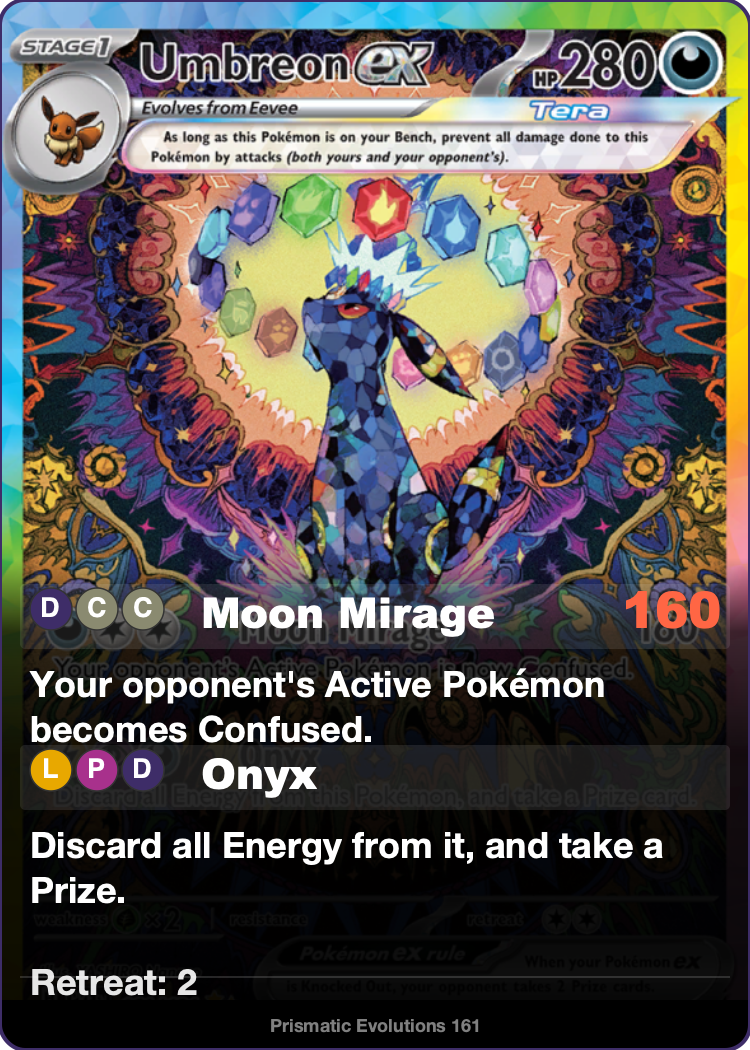
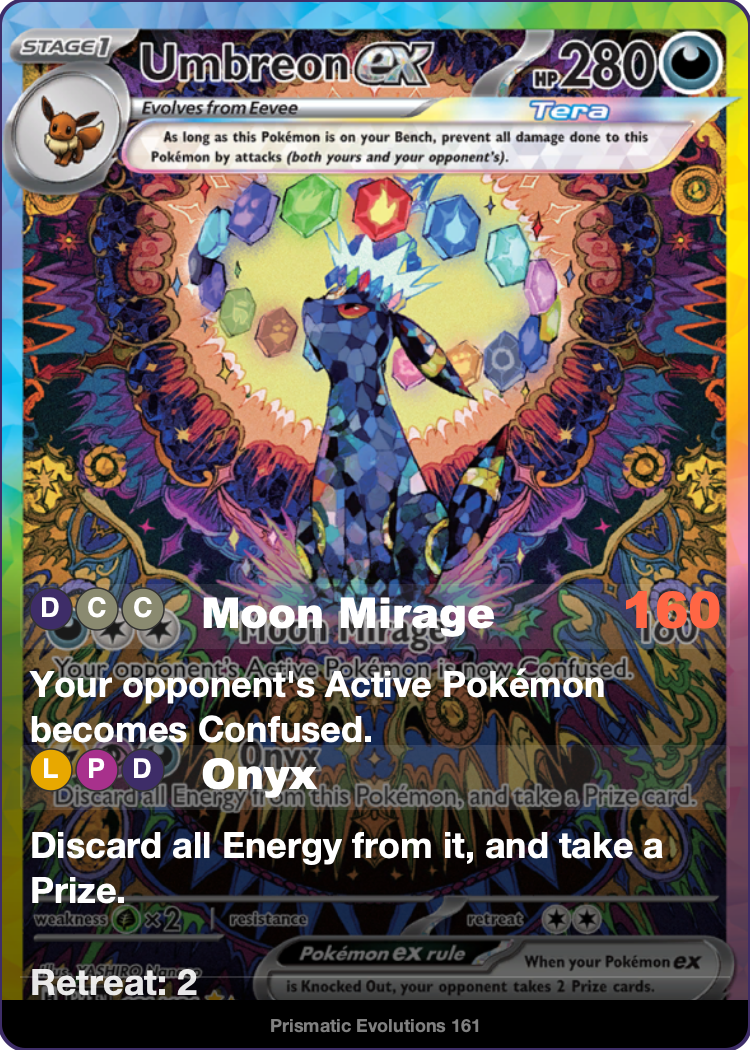
Add per-card overrides, CLI flags for overlay/font/max-cover, white card background
- Full-art overlay opacity, font size, and max coverage are now CLI flags
  (--overlay, --font, --max-cover) that set defaults for all cards
- Per-card overrides via key=value tokens in decklist lines (e.g. overlay=0.4)
- Default overlay opacity set to 0.7
- Standard cards now have solid white background so SVG previews don't
  bleed the editor background
- Updated README with override docs and usage examples

Changed region(s): [[0.0, 0.5486, 1.0, 0.9752], [0.276, 0.9448, 0.3067, 0.9752]]

diff --git a/pokeproxy.py b/pokeproxy.py
@@ -416,11 +416,15 @@ def is_fullart(card: dict) -> bool:
     return False
 
 
-def generate_fullart_svg(card: dict, image_b64: str) -> str:
+def generate_fullart_svg(card: dict, image_b64: str, overlay_opacity: float = 0.7,
+                         font_size: int = None, max_cover: float = 0.55) -> str:
     """Generate an SVG proxy for a full-art card.
 
     Uses the full card image as background with a gradient overlay
     on the lower portion, then renders large readable text on top.
+    overlay_opacity: max darkness of the text background (0.0–1.0).
+    font_size: force body font size in px (None = auto-select 36 or 30).
+    max_cover: max fraction of card the overlay can cover (0.0–1.0).
     """
     name = escape_xml(card.get("name", "Unknown"))
     hp = card.get("hp", "")
@@ -471,7 +475,20 @@ def generate_fullart_svg(card: dict, image_b64: str) -> str:
 
     # Try large (36) first, drop to medium (30) if overlay would cover >50% of card
     BODY_LARGE, BODY_MEDIUM = 36, 30
-    if has_text:
+    if font_size is not None:
+        # Forced font size — skip auto-selection
+        BODY_SIZE = font_size
+        if has_text:
+            head_candidate = int(BODY_SIZE * HEAD_RATIO)
+            text_h = ft_content_height(
+                BODY_SIZE, head_candidate, text_max_w,
+                category, trainer_effect, abilities, attacks)
+            text_block_h = text_h + text_pad + footer_h
+            overlay_top = CARD_H - text_block_h - 40
+        else:
+            text_h = 0
+            overlay_top = CARD_H - footer_h - 40
+    elif has_text:
         for body_candidate in [BODY_LARGE, BODY_MEDIUM]:
             head_candidate = int(body_candidate * HEAD_RATIO)
             text_h = ft_content_height(
@@ -494,7 +511,7 @@ def generate_fullart_svg(card: dict, image_b64: str) -> str:
     if has_text:
         text_block_h = text_h + text_pad + footer_h
         overlay_top = CARD_H - text_block_h - 40
-    overlay_top = max(overlay_top, int(CARD_H * 0.35))  # never cover more than 65%
+    overlay_top = max(overlay_top, int(CARD_H * (1.0 - max_cover)))
 
     lines = []
     lines.append(f'<svg xmlns="http://www.w3.org/2000/svg" xmlns:xlink="http://www.w3.org/1999/xlink" viewBox="0 0 {CARD_W} {CARD_H}" width="{CARD_W}" height="{CARD_H}">')
@@ -502,9 +519,9 @@ def generate_fullart_svg(card: dict, image_b64: str) -> str:
     # Gradient overlay: transparent at top, quickly ramps to near-opaque
     lines.append('    <linearGradient id="overlay-grad" x1="0" y1="0" x2="0" y2="1">')
     lines.append(f'      <stop offset="0%" stop-color="#000" stop-opacity="0"/>')
-    lines.append(f'      <stop offset="15%" stop-color="#000" stop-opacity="0.75"/>')
-    lines.append(f'      <stop offset="40%" stop-color="#000" stop-opacity="0.92"/>')
-    lines.append(f'      <stop offset="100%" stop-color="#000" stop-opacity="0.95"/>')
+    lines.append(f'      <stop offset="15%" stop-color="#000" stop-opacity="{overlay_opacity * 0.6:.2f}"/>')
+    lines.append(f'      <stop offset="40%" stop-color="#000" stop-opacity="{overlay_opacity * 0.85:.2f}"/>')
+    lines.append(f'      <stop offset="100%" stop-color="#000" stop-opacity="{overlay_opacity:.2f}"/>')
     lines.append('    </linearGradient>')
     # Header gradient: dark at top, transparent at bottom
     lines.append('    <linearGradient id="header-grad" x1="0" y1="0" x2="0" y2="1">')
@@ -722,7 +739,8 @@ def generate_svg(card: dict, artwork_b64: str) -> str:
     lines.append("    </filter>")
     lines.append("  </defs>")
 
-    # Card background
+    # Card background — solid white base so transparent areas don't bleed through
+    lines.append(f'  <rect width="{CARD_W}" height="{CARD_H}" rx="25" ry="25" fill="white"/>')
     lines.append(f'  <rect width="{CARD_W}" height="{CARD_H}" rx="25" ry="25" fill="url(#bg)" stroke="{color}" stroke-width="4"/>')
 
     # Header bar
@@ -980,13 +998,20 @@ def generate_svg(card: dict, artwork_b64: str) -> str:
     return "\n".join(lines)
 
 
-def parse_decklist(path: str) -> list[tuple[int, str, str, str]]:
-    """Parse a decklist file. Returns list of (count, set_code, number, comment).
+def parse_decklist(path: str) -> list[tuple[int, str, str, str, dict]]:
+    """Parse a decklist file. Returns list of (count, set_code, number, comment, overrides).
 
     Supports two formats:
       COUNT SET NUM        # old format: 3 SFA 36
       SET NUM xCOUNT       # new format: SFA 36 x3
-    Count is parsed but currently only used for future print layouts.
+
+    Per-card overrides can be added as key=value tokens:
+      BBT 169 x1 overlay=0.4 font=28  # Genesect ex SIR
+
+    Supported overrides:
+      overlay=N   Full-art overlay opacity (0.0–1.0)
+      font=N      Force body font size in px
+      max_cover=N Max fraction of card the overlay can cover (0.0–1.0)
     """
     entries = []
     seen = set()
@@ -1006,6 +1031,20 @@ def parse_decklist(path: str) -> list[tuple[int, str, str, str]]:
             if len(parts) < 2:
                 print(f"  Skipping malformed line: {line}")
                 continue
+
+            # Extract key=value overrides from parts
+            overrides = {}
+            remaining = []
+            for p in parts:
+                if "=" in p and not p.startswith("="):
+                    k, v = p.split("=", 1)
+                    try:
+                        overrides[k] = float(v)
+                    except ValueError:
+                        overrides[k] = v
+                else:
+                    remaining.append(p)
+            parts = remaining
 
             # Detect format: does it start with a number or a set code?
             if parts[0].isdigit():
@@ -1027,7 +1066,7 @@ def parse_decklist(path: str) -> list[tuple[int, str, str, str]]:
             key = (set_code, number)
             if key not in seen:
                 seen.add(key)
-                entries.append((count, set_code, number, comment))
+                entries.append((count, set_code, number, comment, overrides))
     return entries
 
 
@@ -1100,6 +1139,9 @@ Arguments:
 
 Options:
   --no-dupes        Print one copy of each card regardless of decklist count
+  --overlay N       Full-art overlay opacity, 0.0–1.0 (default: 0.7)
+  --font N          Full-art body font size in px (default: auto 36/30)
+  --max-cover N     Max fraction of card the overlay can cover (default: 0.55)
   -h, --help        Show this help message
 
 Output:
@@ -1109,11 +1151,36 @@ Output:
 Decklist format:
   SFA 36 x3         Set code, card number, optional count
   3 SFA 36          Count, set code, card number (alt format)
-  # comment         Lines starting with # are ignored""")
+  # comment         Lines starting with # are ignored
+
+Per-card overrides (on the same line, before the # comment):
+  overlay=0.4       Full-art overlay opacity (0.0–1.0)
+  font=28           Force body font size in px
+  max_cover=0.6     Max fraction of card the overlay can cover""")
         sys.exit(0)
 
     no_dupes = "--no-dupes" in args
-    args = [a for a in args if not a.startswith("-")]
+    # Parse --key value flags
+    defaults = {"overlay": 0.7, "font": None, "max_cover": 0.55}
+    flag_map = {"--overlay": "overlay", "--font": "font", "--max-cover": "max_cover"}
+    positional = []
+    i = 0
+    while i < len(args):
+        if args[i] in flag_map and i + 1 < len(args):
+            key = flag_map[args[i]]
+            defaults[key] = float(args[i + 1])
+            i += 2
+        elif args[i].startswith("-"):
+            i += 1
+        else:
+            positional.append(args[i])
+            i += 1
+    overlay_opacity = defaults["overlay"]
+    default_font = defaults["font"]
+    if default_font is not None:
+        default_font = int(default_font)
+    default_max_cover = defaults["max_cover"]
+    args = positional
 
     decklist_path = args[0] if args else "decklist.txt"
     if not os.path.exists(decklist_path):
@@ -1129,9 +1196,11 @@ Decklist format:
 
     generated = 0
     print_cards = []  # (count, svg_content) for print.html
-    for count, set_code, number, comment in entries:
+    for count, set_code, number, comment, overrides in entries:
         label = comment or f"{set_code} {number}"
         print(f"Processing {count}x {label}...")
+        if overrides:
+            print(f"  Overrides: {overrides}")
 
         try:
             card = fetch_card(set_code, number)
@@ -1139,7 +1208,12 @@ Decklist format:
             if is_fullart(card):
                 print(f"  Full-art detected ({card.get('rarity', 'unknown')})")
                 image_b64 = base64.b64encode(image_data).decode()
-                svg = generate_fullart_svg(card, image_b64)
+                card_overlay = overrides.get("overlay", overlay_opacity)
+                card_font = overrides.get("font", default_font)
+                if card_font is not None:
+                    card_font = int(card_font)
+                card_max_cover = overrides.get("max_cover", default_max_cover)
+                svg = generate_fullart_svg(card, image_b64, card_overlay, card_font, card_max_cover)
             else:
                 artwork_b64 = crop_artwork(image_data)
                 svg = generate_svg(card, artwork_b64)

diff --git a/README.md b/README.md
@@ -76,6 +76,15 @@ PAF 80  x3  # Iono
 
 Each line has a set code (e.g. `SFA`, `PAF`, `SVI`), a card number, and an optional count (`x3`). See `set_codes.py` for the full list of supported set codes (Scarlet & Violet era).
 
+Per-card overrides can be added as `key=value` tokens on any line (full-art cards only):
+
+```
+BBT 169 x1 overlay=0.4              # less dark overlay
+BBT 169 x1 font=28                  # smaller text
+BBT 169 x1 max_cover=0.6            # overlay can cover up to 60% of card
+BBT 169 x1 overlay=0.3 font=24      # combine multiple overrides
+```
+
 ## Usage
 
 ```bash
@@ -87,6 +96,9 @@ python pokeproxy.py decklist_gallery.txt
 
 # One copy per card (ignore counts)
 python pokeproxy.py --no-dupes decklist.txt
+
+# Adjust full-art overlay darkness (0.0 = transparent, 1.0 = opaque)
+python pokeproxy.py --overlay 0.4 decklist_gallery.txt
 ```
 
 ### Output
